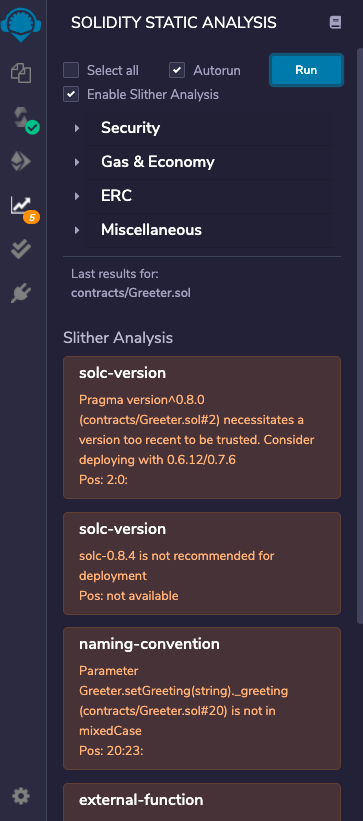
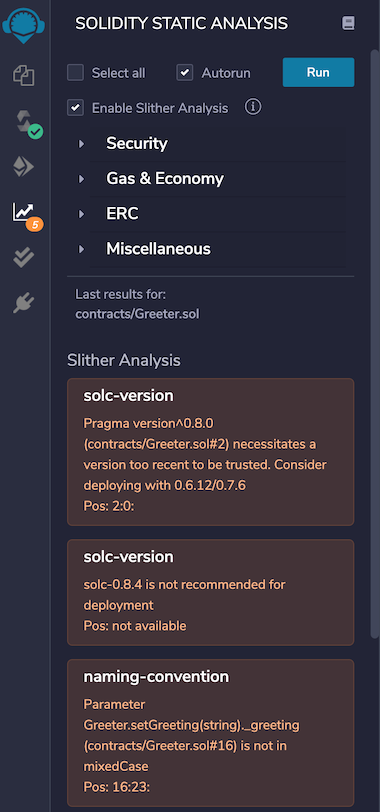
slither doc updated

diff --git a/docs/slither.md b/docs/slither.md
@@ -35,6 +35,8 @@ If a project is shared through remixd and `localhost` workspace is loaded in Rem
 
 ![](images/a-slither-analysis.png)
 
+There is an info icon on the right side of the label which redirects to a specific section of Remix official documentation that explains how to use Slither Analysis and prerequisites for it.
+
 One can check this box to run the analysis using Slither along with the Remix's analysis library. 
 
 Generated report of Slither analysis will be stored locally on project root with a file name prefixed with `remix-slitherReport_`, for example: `remix-slitherReport_1627362090.json`. 

diff --git a/docs/hardhat.md b/docs/hardhat.md
@@ -37,7 +37,7 @@ If a hardhat project is shared through remixd and `localhost` workspace is loade
 
 ![](images/a-hardhat-compilation.png)
 
-There is an info icon along side the label which redirects to a specific section of Remix official documentation which explains how to use it.
+There is an info icon along side the label which redirects to a specific section of Remix official documentation that explains how to use Hardhat compilation.
 
 One can check this box to run the compilation for Hardhat along with the Remix using the compiler configuration in `Solidity Compiler` plugin.
 
